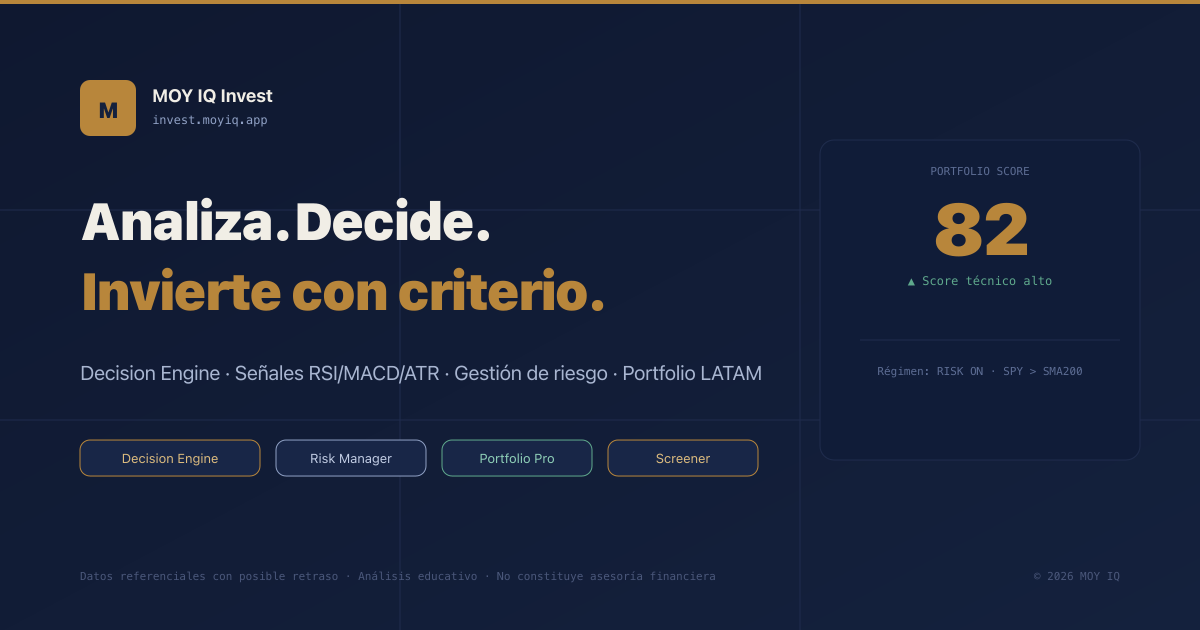
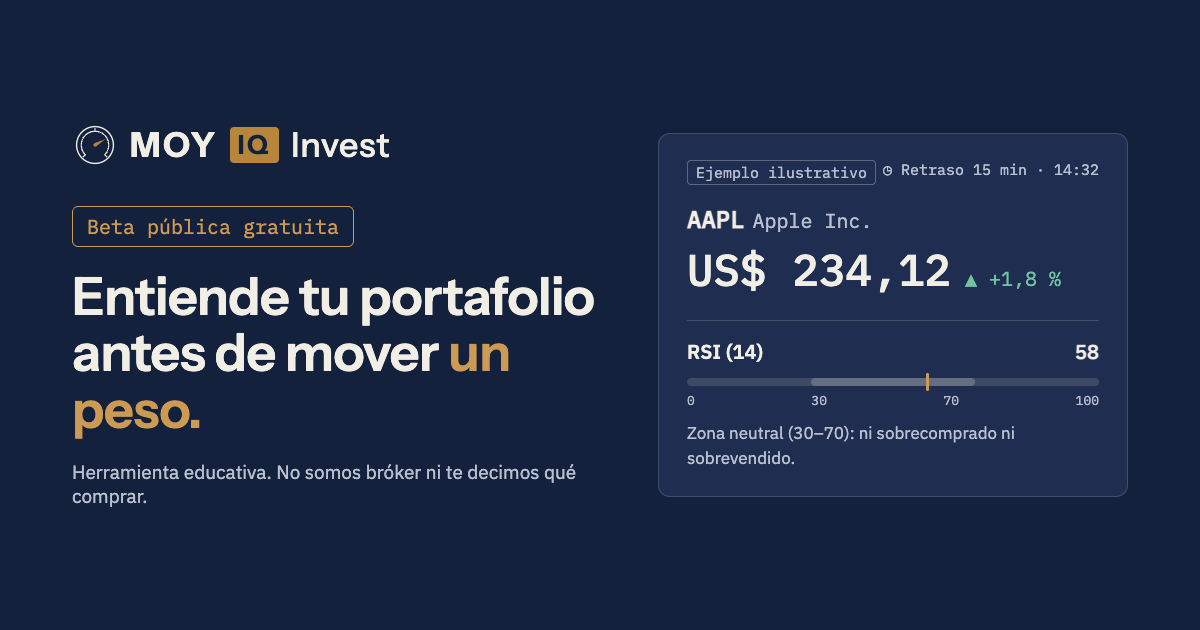
relaunch(invest): new og-invest.png for the free beta
1200x630, navy background, MOY IQ Invest lockup, 'Beta pública gratuita'
and a neutral 'Ejemplo ilustrativo' card (price with freshness label and
RSI with its 30-70 range). Replaces the image showing 'Portfolio Score 82'
and 'Pro'. Source in tools/og/og-invest.html (rendered with headless
Chrome and the self-hosted fonts); tools/ is excluded from deploys.

diff --git a/tools/og/og-invest.html b/tools/og/og-invest.html
@@ -1,0 +1,74 @@
+<!doctype html>
+<!-- Fuente de og-invest.png (1200×630). Regenerar desde la raíz del repo:
+       python3 -m http.server 8791 &
+       "/Applications/Google Chrome.app/Contents/MacOS/Google Chrome" --headless=new \
+         --hide-scrollbars --window-size=1200,630 --screenshot=og-invest.png \
+         http://localhost:8791/tools/og/og-invest.html
+     tools/ no se despliega (.vercelignore). Ejemplo ilustrativo: no son datos reales. -->
+<html lang="es">
+<head>
+<meta charset="utf-8">
+<link rel="stylesheet" href="/fonts.css">
+<style>
+  :root{--navy:#14213D;--navy-700:#1F2E50;--laton:#B8863B;--accent-dark:#CC9A52;--papel:#F1EEE6;--navy-200:#B9C0CF;--pos:#74C2A3}
+  *{margin:0;padding:0;box-sizing:border-box}
+  html,body{width:1200px;height:630px;overflow:hidden}
+  body{background:var(--navy);color:var(--papel);font-family:'IBM Plex Sans',sans-serif;display:grid;grid-template-columns:1fr 470px;gap:56px;align-items:center;padding:0 72px}
+  .lockup{display:flex;align-items:center;gap:12px;font-family:'Instrument Sans',sans-serif;font-weight:700;font-size:34px;letter-spacing:.08em}
+  .lockup svg{width:46px;height:46px;color:var(--papel)}
+  .iq{background:var(--laton);color:var(--navy);padding:2px 8px;border-radius:4px;font-size:26px}
+  .sfx{font-weight:500;letter-spacing:.02em;color:var(--papel)}
+  .badge{display:inline-block;margin-top:38px;border:1.5px solid var(--accent-dark);color:var(--accent-dark);font-family:'IBM Plex Mono',monospace;font-size:20px;padding:7px 14px;border-radius:6px}
+  h1{font-family:'Instrument Sans',sans-serif;font-weight:600;font-size:52px;line-height:1.08;letter-spacing:-.01em;margin-top:22px}
+  h1 em{font-style:normal;color:var(--accent-dark)}
+  .note{margin-top:22px;font-size:19px;color:var(--navy-200)}
+  .card{background:var(--navy-700);border:1px solid rgba(241,238,230,.16);border-radius:12px;padding:26px 28px}
+  .eyebrow{display:flex;justify-content:space-between;font-family:'IBM Plex Mono',monospace;font-size:15px;color:var(--navy-200)}
+  .eyebrow .ex{border:1px solid rgba(241,238,230,.3);border-radius:4px;padding:2px 8px}
+  .tk{margin-top:18px;font-family:'IBM Plex Mono',monospace;font-size:20px;color:var(--navy-200)}
+  .tk b{color:var(--papel);font-size:24px;margin-right:8px}
+  .px{display:flex;align-items:baseline;gap:14px;margin-top:6px;font-family:'IBM Plex Mono',monospace;font-variant-numeric:tabular-nums}
+  .px .v{font-size:44px;font-weight:500;color:var(--papel)}
+  .px .c{font-size:20px;color:var(--pos)}
+  .fresh{margin-top:6px;font-family:'IBM Plex Mono',monospace;font-size:16px;color:var(--navy-200)}
+  .ind{margin-top:22px;padding-top:18px;border-top:1px solid rgba(241,238,230,.16)}
+  .ind .row{display:flex;justify-content:space-between;font-size:20px;font-weight:600}
+  .ind .row span:last-child{font-family:'IBM Plex Mono',monospace}
+  .bar{position:relative;height:8px;border-radius:4px;background:rgba(241,238,230,.14);margin:14px 0 6px}
+  .bar .z{position:absolute;left:30%;width:40%;top:0;bottom:0;background:rgba(241,238,230,.22);border-radius:4px}
+  .bar .m{position:absolute;left:58%;top:-5px;width:3px;height:18px;background:var(--accent-dark);border-radius:2px}
+  .scale{display:flex;justify-content:space-between;font-family:'IBM Plex Mono',monospace;font-size:13px;color:var(--navy-200)}
+  .read{margin-top:12px;font-size:17px;color:var(--navy-200);line-height:1.45}
+</style>
+</head>
+<body>
+  <div>
+    <div class="lockup">
+      <svg viewBox="0 0 100 100" aria-hidden="true">
+        <circle cx="50" cy="50" r="40" fill="none" stroke="currentColor" stroke-width="3"/>
+        <path d="M 28.79 71.21 A 30 30 0 1 1 71.21 71.21" fill="none" stroke="currentColor" stroke-width="2.5" stroke-linecap="round"/>
+        <line x1="28.79" y1="71.21" x2="24.54" y2="75.46" stroke="currentColor" stroke-width="2.5" stroke-linecap="round"/>
+        <line x1="50" y1="20" x2="50" y2="14" stroke="currentColor" stroke-width="2.5" stroke-linecap="round"/>
+        <line x1="71.21" y1="71.21" x2="75.46" y2="75.46" stroke="currentColor" stroke-width="2.5" stroke-linecap="round"/>
+        <path d="M 52 53.46 L 72.52 37 L 48 46.54 Z" fill="#B8863B"/>
+        <circle cx="50" cy="50" r="3.5" fill="#B8863B"/>
+      </svg>
+      MOY<span class="iq">IQ</span><span class="sfx">Invest</span>
+    </div>
+    <div class="badge">Beta pública gratuita</div>
+    <h1>Entiende tu portafolio antes de mover <em>un peso.</em></h1>
+    <p class="note">Herramienta educativa. No somos bróker ni te decimos qué comprar.</p>
+  </div>
+  <div class="card">
+    <div class="eyebrow"><span class="ex">Ejemplo ilustrativo</span><span>◷ Retraso 15 min · 14:32</span></div>
+    <div class="tk"><b>AAPL</b>Apple Inc.</div>
+    <div class="px"><span class="v">US$ 234,12</span><span class="c">▲ +1,8 %</span></div>
+    <div class="ind">
+      <div class="row"><span>RSI (14)</span><span>58</span></div>
+      <div class="bar"><div class="z"></div><div class="m"></div></div>
+      <div class="scale"><span>0</span><span>30</span><span>70</span><span>100</span></div>
+      <p class="read">Zona neutral (30–70): ni sobrecomprado ni sobrevendido.</p>
+    </div>
+  </div>
+</body>
+</html>
